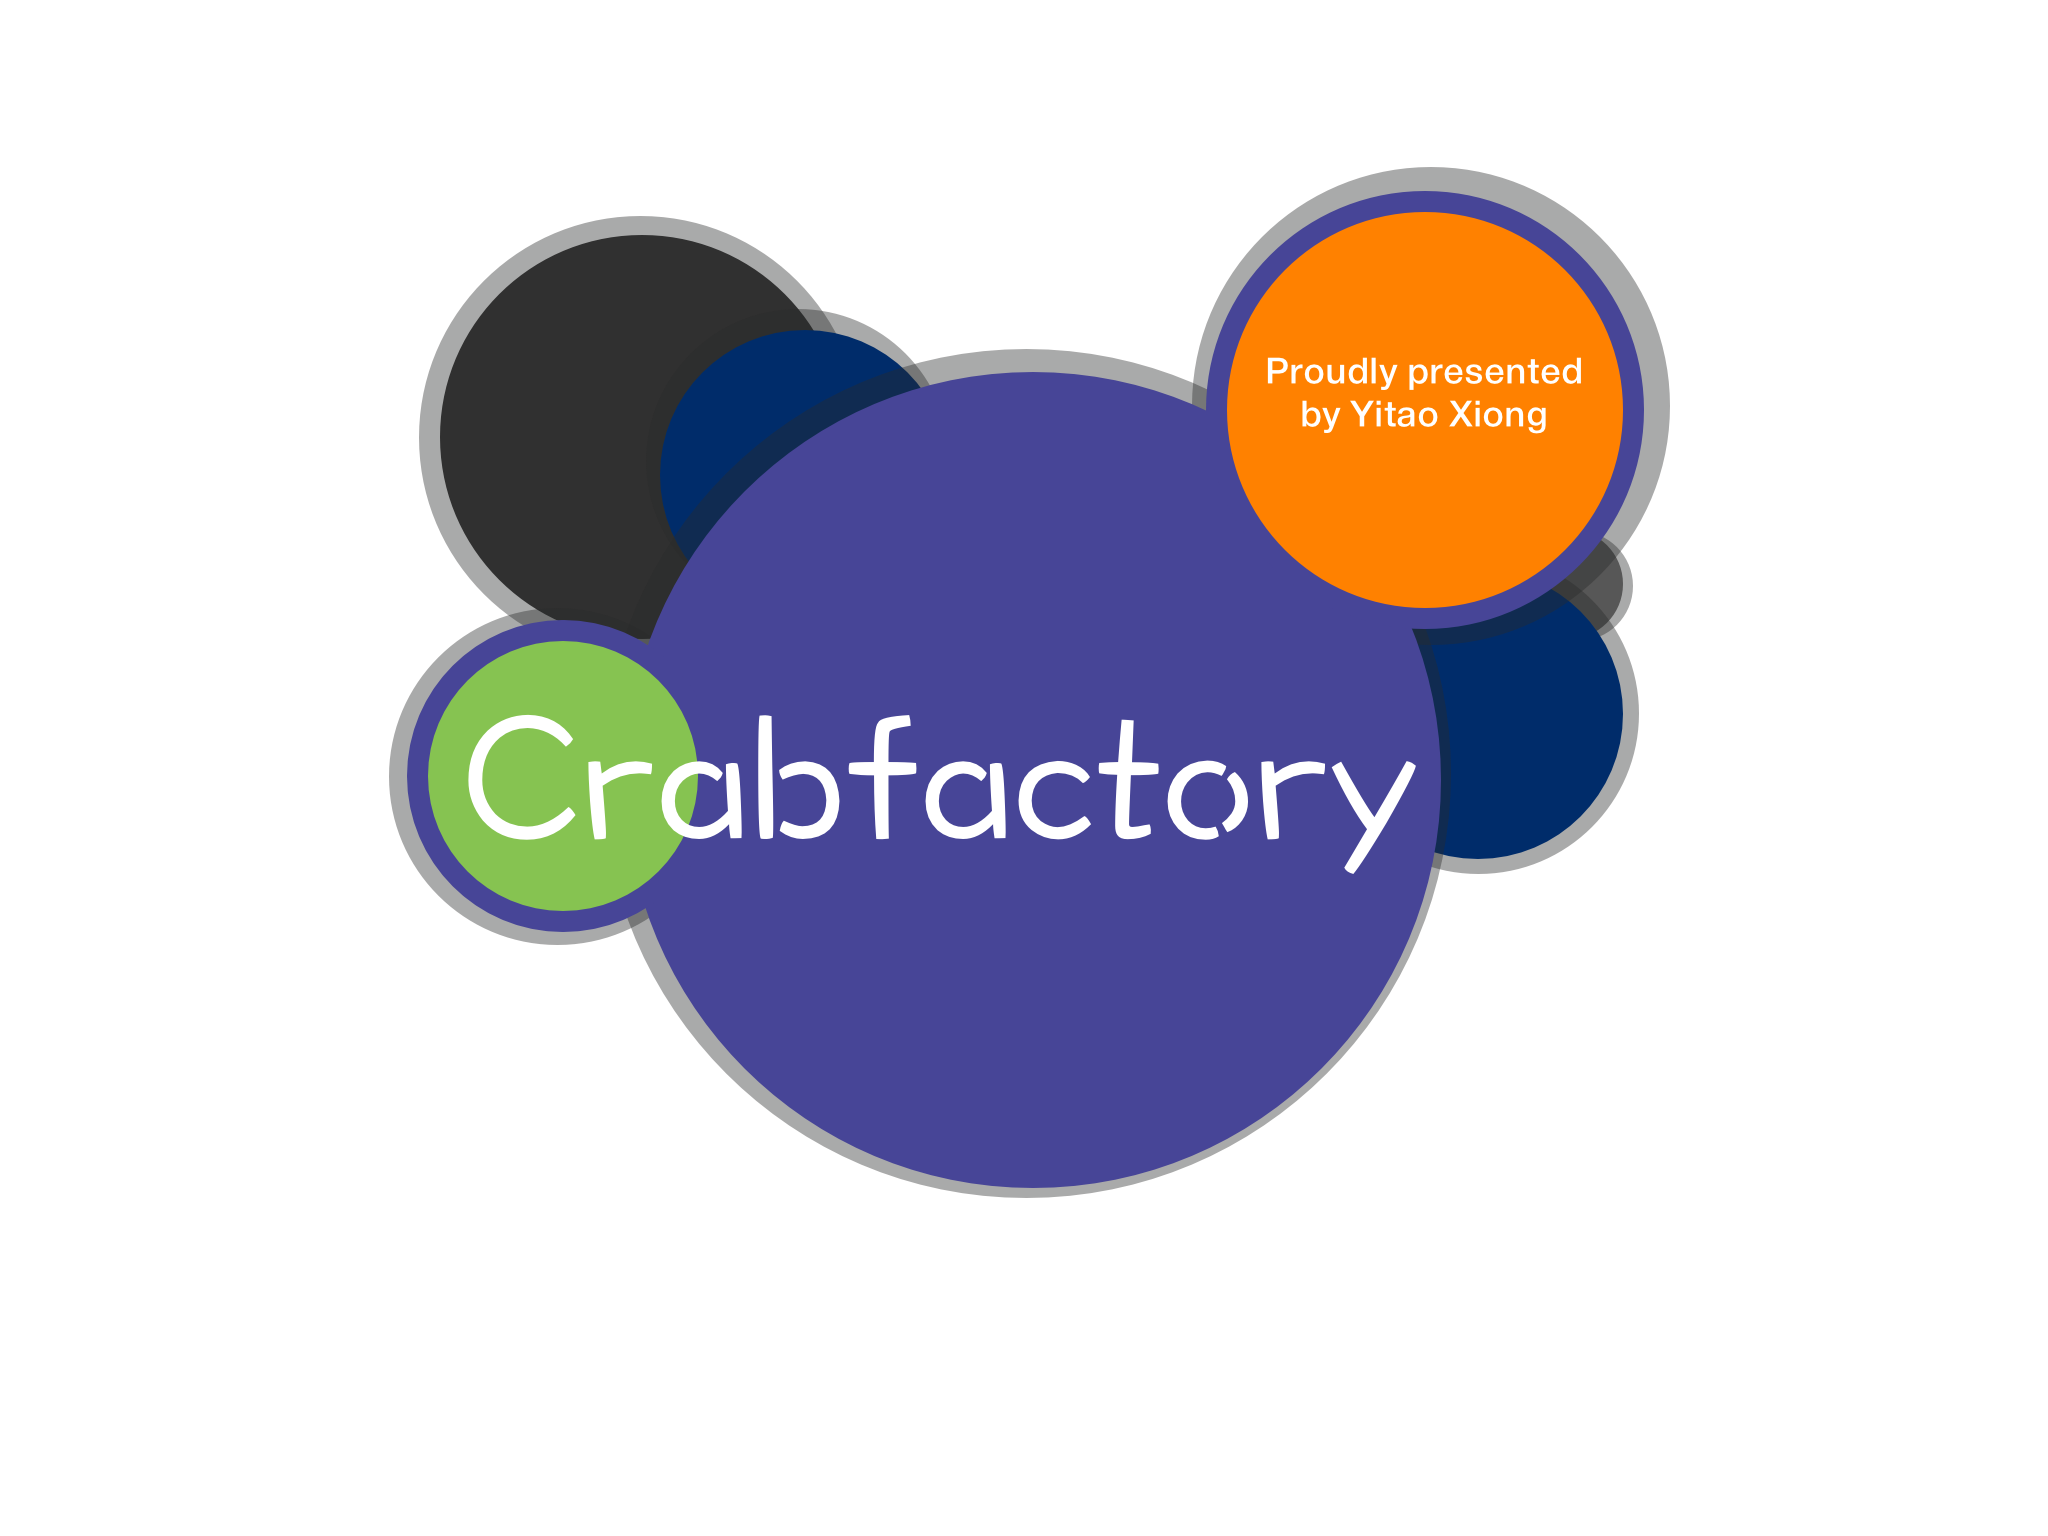
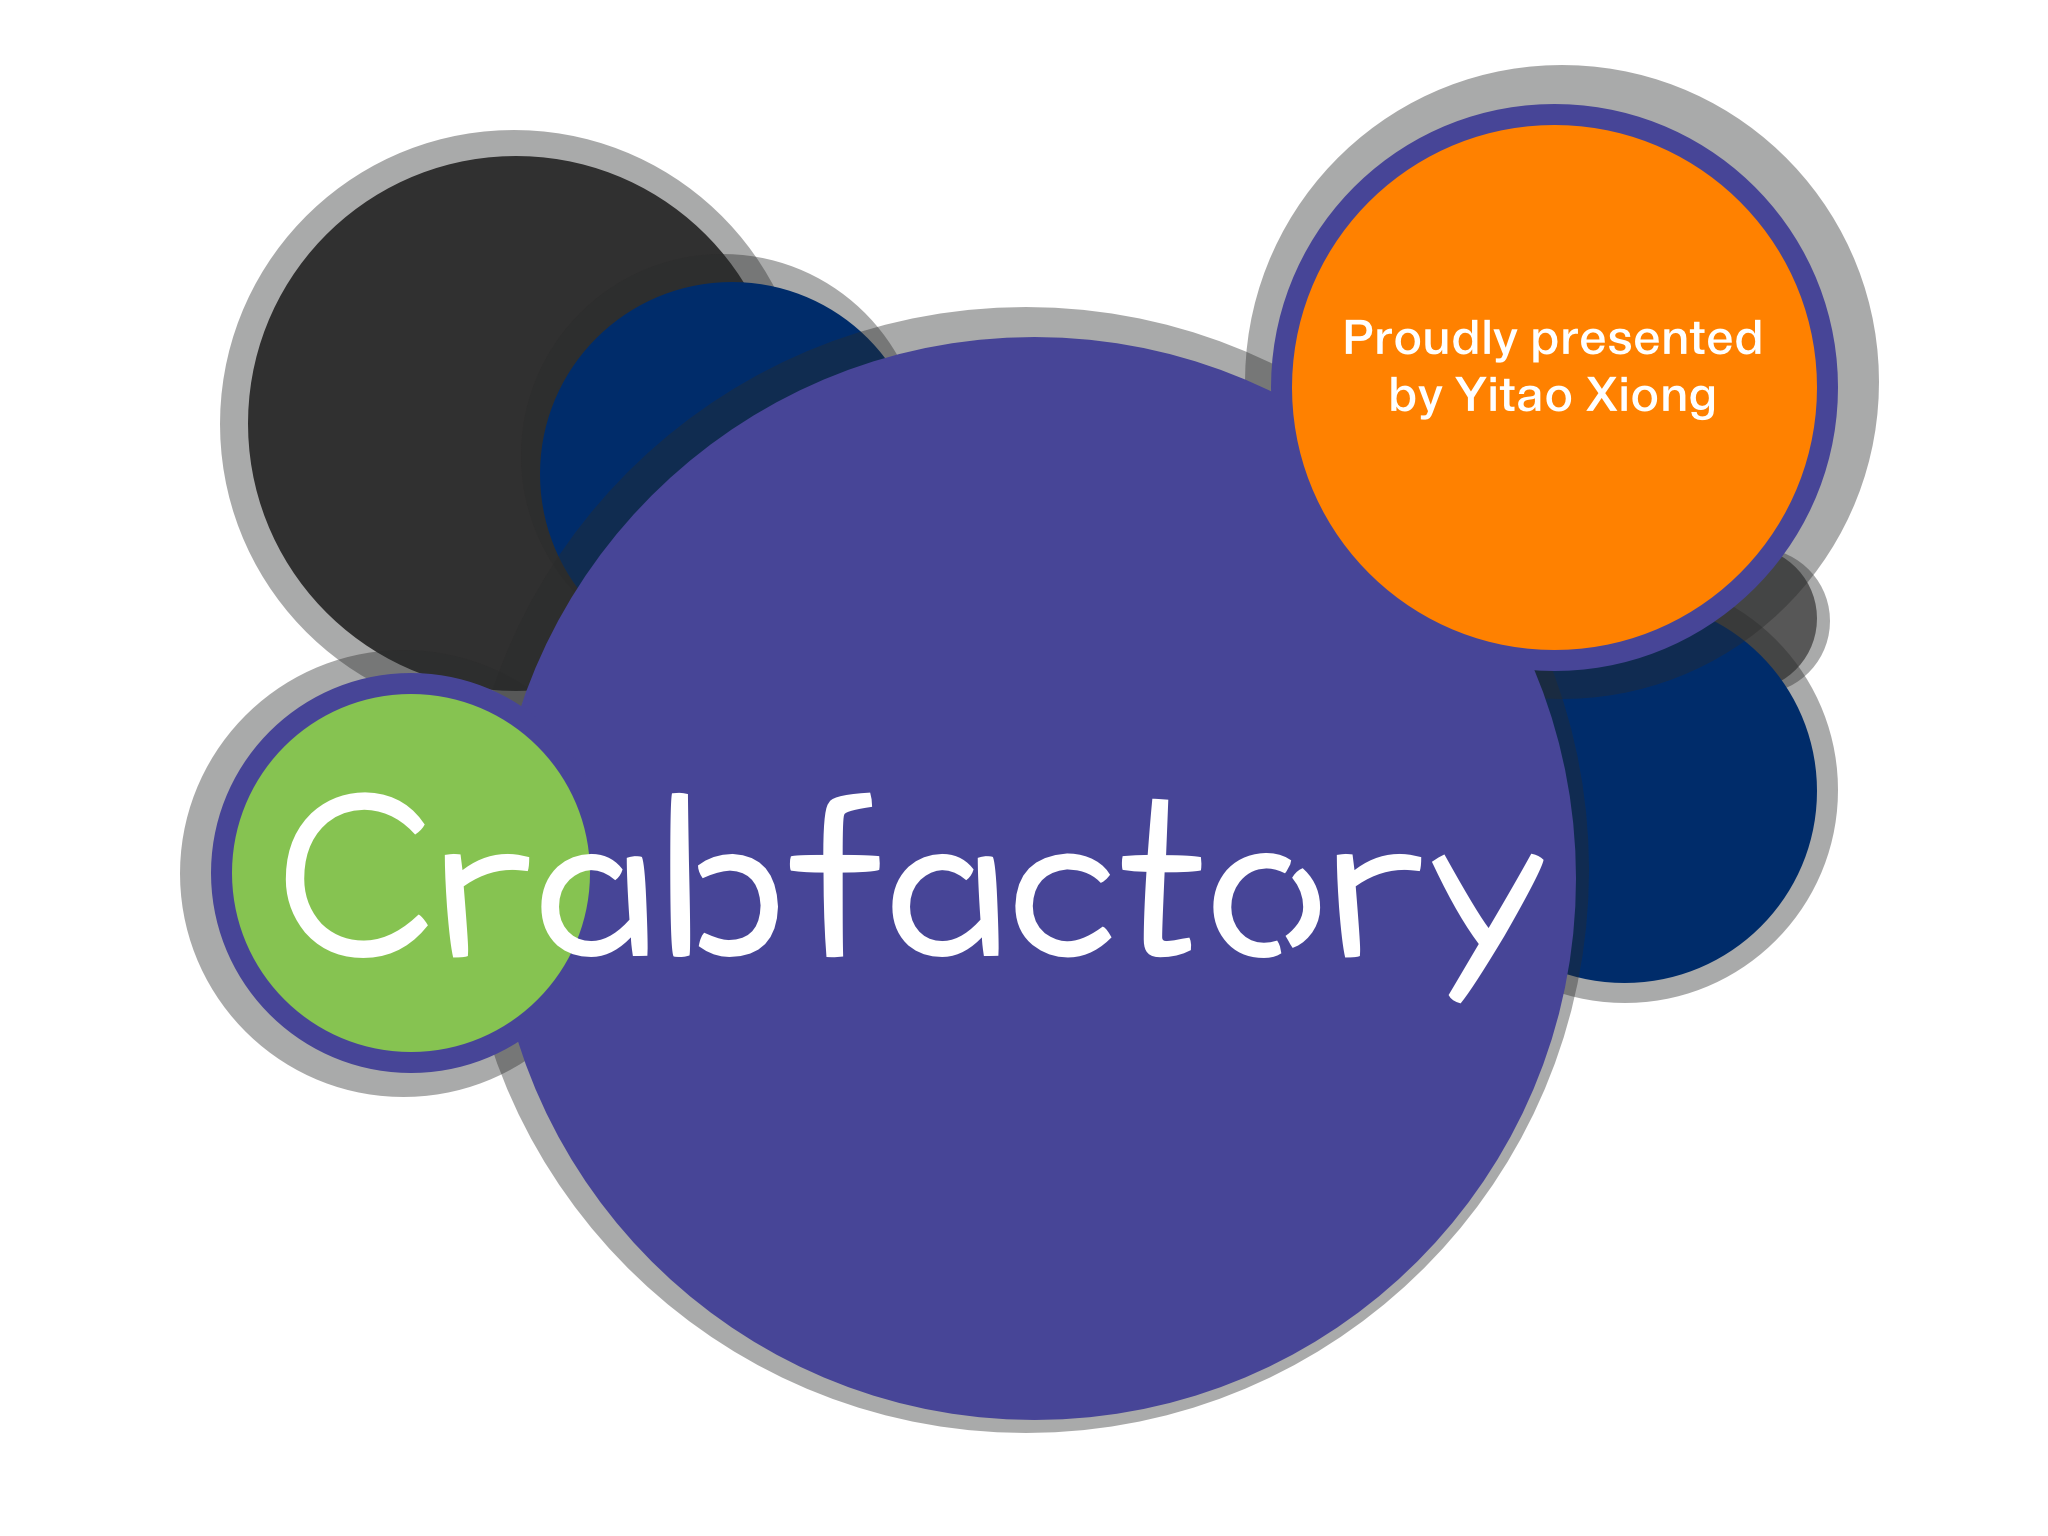
Change fonts

diff --git a/crabfactory/templates/home/index.html b/crabfactory/templates/home/index.html
@@ -17,37 +17,37 @@
                 <img id="center_img" src="{% get_static_prefix %}home/img/crab_logo.png"></img>
             </div>
             <div id="center_icon_shadow" class="circle"></div>
-            <div id="intro_icon" class="normal_icon circle">
+            <div id="intro_icon" class="normal_icon circle" onclick="display_intro">
                 <img class="img_in_circle" src="{% get_static_prefix %}home/img/intro_icon.png"></img>
                 <div class="cn_in_circle">简介</div>
                 <div class="line_in_circle"></div>
                 <div class="en_in_circle">Intro</div>
             </div>
-            <div id="skill_icon" class="normal_icon circle">
+            <div id="skill_icon" class="normal_icon circle" onclick="display_skill">
                 <img class="img_in_circle" src="{% get_static_prefix %}home/img/skill_icon.png"></img>
                 <div class="cn_in_circle">技能</div>
                 <div class="line_in_circle"></div>
                 <div class="en_in_circle">Skill</div>
             </div>
-            <div id="project_icon" class="normal_icon circle">
+            <div id="project_icon" class="normal_icon circle" onclick="display_project">
                 <img class="img_in_circle" src="{% get_static_prefix %}home/img/project_icon.png"></img>
                 <div class="cn_in_circle">项目</div>
                 <div class="line_in_circle"></div>
                 <div class="en_in_circle">Project</div>
             </div>
-            <div id="social_icon" class="normal_icon circle">
-                <img class="img_in_circle" src="{% get_static_prefix %}home/img/social_icon.png"></img>
-                <div class="cn_in_circle">社交</div>
+            <div id="contact_icon" class="normal_icon circle" onclick="display_contact">
+                <img class="img_in_circle" src="{% get_static_prefix %}home/img/contact_icon.png"></img>
+                <div class="cn_in_circle">联系</div>
                 <div class="line_in_circle"></div>
-                <div class="en_in_circle">Social</div>
+                <div class="en_in_circle">Contact</div>
             </div>
-            <div id="resume_icon" class="normal_icon circle">
+            <div id="resume_icon" class="normal_icon circle" onclick="display_resume">
                 <img class="img_in_circle" src="{% get_static_prefix %}home/img/resume_icon.png"></img>
                 <div class="cn_in_circle">简历</div>
                 <div class="line_in_circle"></div>
                 <div class="en_in_circle">Resume</div>
             </div>
-            <div id="about_icon" class="normal_icon circle">
+            <div id="about_icon" class="normal_icon circle" onclick="display_about">
                 <img class="img_in_circle" src="{% get_static_prefix %}home/img/about_icon.png"></img>
                 <div class="cn_in_circle">关于</div>
                 <div class="line_in_circle"></div>

diff --git a/crabfactory/static/home/css/background.css b/crabfactory/static/home/css/background.css
@@ -121,7 +121,7 @@ body {
 
 .cn_in_circle {
     cursor: default;
-    font-family: CaiYunHanMaoBi;
+    font-family: Mini;
     font-size: 1.6vw;
     color: WHITE;
     position: absolute;
@@ -134,12 +134,12 @@ body {
 }
 
 @font-face {
-    font-family: 'CaiYunHanMaoBi';
-    src: url('../font/CaiYunHanMaoBi/CaiYunHanMaoBi-Xing.eot');
+    font-family: 'Mini';
+    src: url('../font/Mini/minijianyaya.eot');
     src: local('☺'),
-         url('../font/CaiYunHanMaoBi/CaiYunHanMaoBi-Xing.woff') format('woff'),
-         url('../font/CaiYunHanMaoBi/CaiYunHanMaoBi-Xing.ttf') format('truetype'),
-         url('../font/CaiYunHanMaoBi/CaiYunHanMaoBi-Xing.svg#CaiYunHanMaoBi') format('svg');
+         url('../font/Mini/minijianyaya.woff') format('woff'),
+         url('../font/Mini/minijianyaya.ttf') format('truetype'),
+         url('../font/Mini/minijianyaya.svg#Mini') format('svg');
 }
 
 .line_in_circle {
@@ -188,7 +188,7 @@ body {
 }
 
 .normal_icon:hover > .cn_in_circle {
-    right: 30%;
+    right: 28%;
     opacity: 1;
 }
 
@@ -220,7 +220,7 @@ body {
     left: 35%;
 }
 
-#social_icon {
+#contact_icon {
     background-color: rgba(215, 133, 165, 1);
     left: 59%;
 }
@@ -251,8 +251,8 @@ body {
 
 #content_idle_container {
     margin: auto;
-    width: 68%;
-    height: 51%;
+    width: 60%;
+    height: 45%;
 }
 
 #content_idle {

diff --git a/crabfactory/static/home/js/background.js b/crabfactory/static/home/js/background.js
@@ -1,3 +1,19 @@
 $("window").load(function() {
     $("body").removeClass("preload");
 })
+
+var display_intro = function() {
+    alert("display_intro");
+}
+
+var display_skill = function() {
+    alert("display_skill");
+}
+
+var display_project = function() {
+    alert("display_project");
+}
+
+var display_social = function() {
+    alert("display_project");
+}
